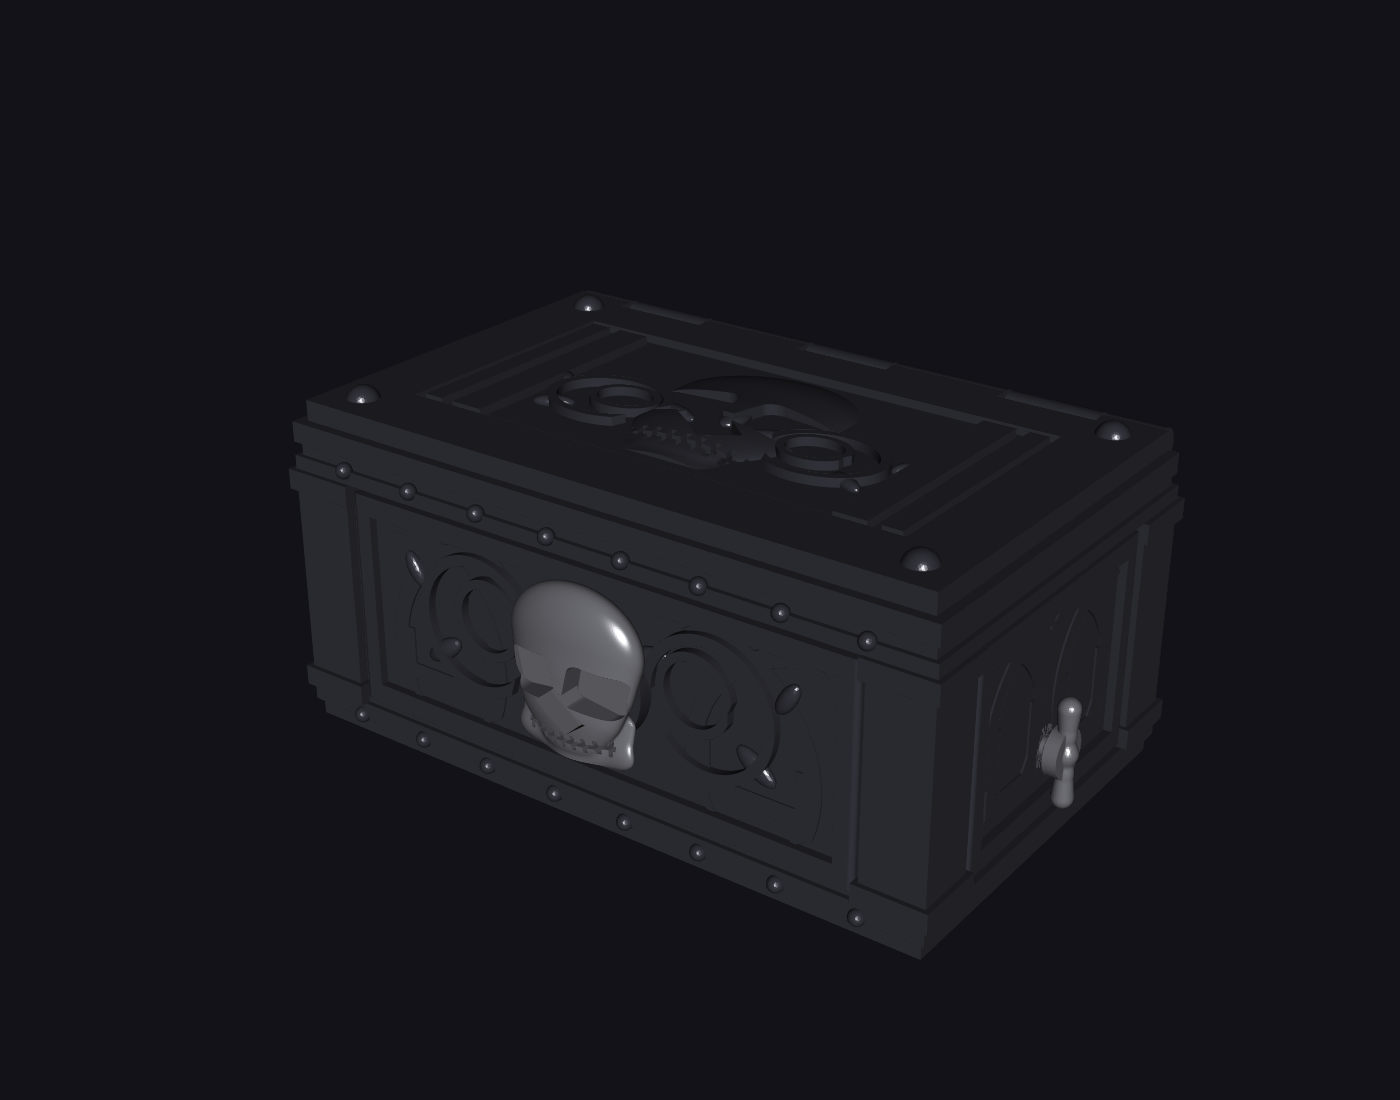
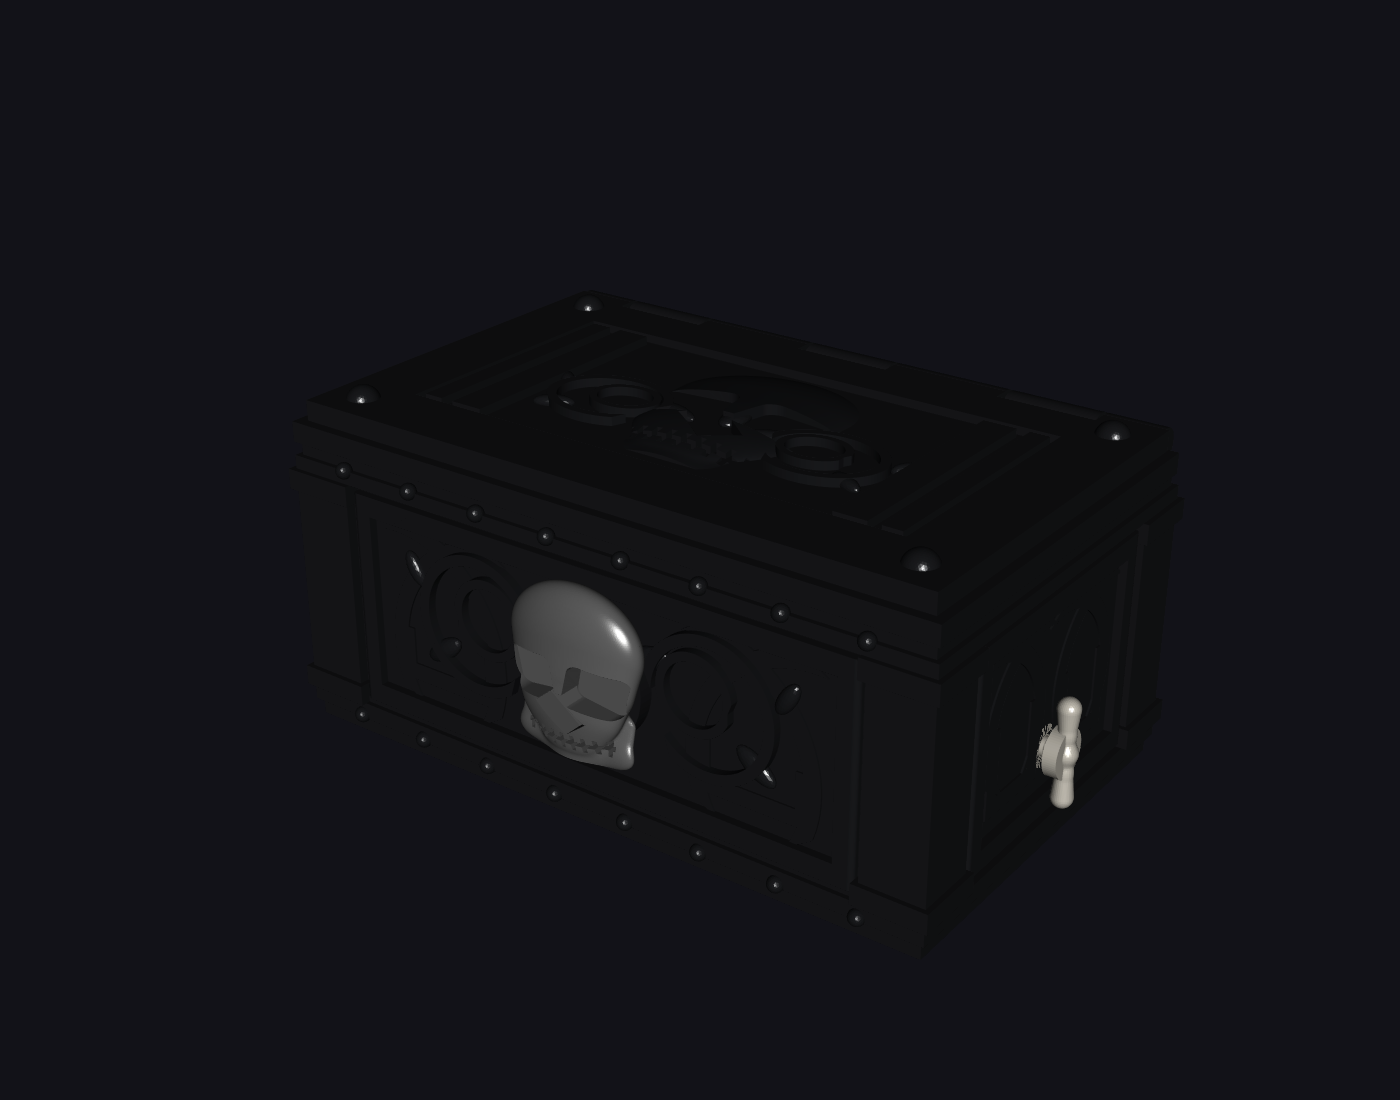
Add material colors to Ghoul print projects
Embed the intended filament colors in Orca project settings and neutral 3MF metadata, render those colors in Canvas and presentation images, and record the verified color-aware slice results.

diff --git a/scripts/export_ghouls_grip_orca_projects.py b/scripts/export_ghouls_grip_orca_projects.py
@@ -32,6 +32,7 @@ METADATA_ENTRY = "Metadata/ghouls_grip_print_metadata.xml"
 MATERIAL_PROJECTS = {
     "black-pla": {
         "match": "Schatulle - schwarzes PLA",
+        "color": "#202124",
         "filament": "Anycubic PLA @Anycubic Kobra S1 0.4 nozzle.json",
         # Economy shell: the 3 mm source walls still retain a durable
         # 1.2 mm perimeter envelope, while lower infill and a 45-degree
@@ -43,12 +44,14 @@ MATERIAL_PROJECTS = {
     },
     "bone-pla": {
         "match": "Knochen - beiges PLA",
+        "color": "#D8C6A5",
         "filament": "Anycubic PLA @Anycubic Kobra S1 0.4 nozzle.json",
         "wall_loops": "4", "infill": "25%", "speed": "standard",
         "filament_type": "PLA", "support": "tree", "manual_gap": 24.0,
     },
     "mechanism-pla": {
         "match": "Mechanik - naturweisses PLA",
+        "color": "#F1EBDD",
         "exclude": {
             "platform", "latch-slider", "latch-bracket",
             "crank-spool", "crank-key",
@@ -60,24 +63,28 @@ MATERIAL_PROJECTS = {
     },
     "mechanism-supported-platform-pla": {
         "match": "Mechanik - naturweisses PLA", "include": {"platform"},
+        "color": "#F1EBDD",
         "filament": "Anycubic PLA @Anycubic Kobra S1 0.4 nozzle.json",
         "wall_loops": "5", "infill": "40%", "speed": "mechanism",
         "filament_type": "PLA", "object_overrides": True, "support": "normal",
     },
     "mechanism-supported-latch-slider-pla": {
         "match": "Mechanik - naturweisses PLA", "include": {"latch-slider"},
+        "color": "#F1EBDD",
         "filament": "Anycubic PLA @Anycubic Kobra S1 0.4 nozzle.json",
         "wall_loops": "5", "infill": "40%", "speed": "mechanism",
         "filament_type": "PLA", "object_overrides": True, "support": "normal",
     },
     "mechanism-supported-latch-bracket-pla": {
         "match": "Mechanik - naturweisses PLA", "include": {"latch-bracket"},
+        "color": "#F1EBDD",
         "filament": "Anycubic PLA @Anycubic Kobra S1 0.4 nozzle.json",
         "wall_loops": "5", "infill": "40%", "speed": "mechanism",
         "filament_type": "PLA", "object_overrides": True, "support": "normal",
     },
     "mechanism-supported-crank-pla": {
         "match": "Mechanik - naturweisses PLA",
+        "color": "#F1EBDD",
         "include": {"crank-spool", "crank-key"},
         "filament": "Anycubic PLA @Anycubic Kobra S1 0.4 nozzle.json",
         "wall_loops": "5", "infill": "40%", "speed": "mechanism",
@@ -87,18 +94,21 @@ MATERIAL_PROJECTS = {
     },
     "mechanism-supported-band-anchor-pla": {
         "match": "Mechanik - naturweisses PLA", "include": {"band-anchor"},
+        "color": "#F1EBDD",
         "filament": "Anycubic PLA @Anycubic Kobra S1 0.4 nozzle.json",
         "wall_loops": "5", "infill": "40%", "speed": "mechanism",
         "filament_type": "PLA", "object_overrides": True, "support": "normal",
     },
     "accent-pla": {
         "match": "Totenkopf-Ausloeser - graues PLA",
+        "color": "#777777",
         "filament": "Anycubic PLA @Anycubic Kobra S1 0.4 nozzle.json",
         "wall_loops": "4", "infill": "25%", "speed": "standard",
         "filament_type": "PLA", "support": "tree",
     },
     "fingers-pla": {
         "match": "Finger - beiges PLA (Filmscharniere)",
+        "color": "#C9B48E",
         "filament": "Anycubic PLA @Anycubic Kobra S1 0.4 nozzle.json",
         "wall_loops": "2", "infill": "15%", "speed": "flexure",
         "filament_type": "PLA", "manual_gap": 20.0,
@@ -201,6 +211,12 @@ def _patch_project_settings(path: Path, spec: dict) -> dict:
     project_key = "Metadata/project_settings.config"
     project = json.loads(entries[project_key].decode("utf-8"))
     overrides = _process_settings(spec)
+    color = spec["color"].upper()
+    overrides.update({
+        "default_filament_colour": [color],
+        "extruder_colour": [color],
+        "filament_colour": [color],
+    })
     project.update(overrides)
     changed = ";".join(sorted(key for key in overrides
                               if key != "filament_type"))
@@ -264,6 +280,8 @@ def _write_project_metadata(path: Path, spec: dict, checks: dict) -> None:
         "filamentProfile": ", ".join(checks["filament"]) if isinstance(
             checks["filament"], list) else checks["filament"],
         "materialType": spec["filament_type"],
+        "materialColorName": spec["match"],
+        "materialColorHex": spec["color"].upper(),
         "bedType": checks["bed"],
         "wallLoops": spec["wall_loops"],
         "infillDensity": spec["infill"],
@@ -298,6 +316,7 @@ def _verify_project(path: Path, expected_objects: int) -> dict:
         "filament": project.get("filament_settings_id"),
         "bed": project.get("curr_bed_type"),
         "layer_height": project.get("layer_height"),
+        "color": project.get("filament_colour"),
         "objects": len(objects),
         "plates": len(plates),
     }
@@ -307,6 +326,11 @@ def _verify_project(path: Path, expected_objects: int) -> dict:
         raise RuntimeError(f"{path.name}: wrong bed: {checks['bed']}")
     if checks["layer_height"] != "0.2":
         raise RuntimeError(f"{path.name}: wrong layer height")
+    expected_color = [MATERIAL_PROJECTS[
+        path.stem.removeprefix("ghouls-grip-print-")]["color"].upper()]
+    if checks["color"] != expected_color:
+        raise RuntimeError(
+            f"{path.name}: wrong filament color: {checks['color']}")
     if len(objects) != expected_objects or not plates:
         raise RuntimeError(f"{path.name}: object/plate count mismatch {checks}")
     return checks

diff --git a/scripts/render_ghouls_grip.py b/scripts/render_ghouls_grip.py
@@ -40,6 +40,11 @@ POSES = {
     "deployed": mechanism.THETA_MAX,
 }
 LID_OPEN_ANGLE = 92.0
+BLACK_COLOR = "#202124"
+BONE_COLOR = "#D8C6A5"
+MECHANISM_COLOR = "#F1EBDD"
+FINGER_COLOR = "#C9B48E"
+ACCENT_COLOR = "#777777"
 
 
 def rot(angle_deg: float, axis, point=(0.0, 0.0, 0.0)):
@@ -98,7 +103,7 @@ def build_scene_at(theta: float):
     plat_origin = np.array([FLOOR_PIVOT[0] - PLATFORM_PIN, 0.0, plate_z + 8.0])
 
     items = []
-    items.append(("chest", build_chest(), "#43434e"))
+    items.append(("chest", build_chest(), BLACK_COLOR))
 
     lid = build_lid()
     lid.apply_translation([0.0, 0.0, LID_DROP])
@@ -108,7 +113,7 @@ def build_scene_at(theta: float):
         lid_transform = rot(opening, [1, 0, 0],
                             [0.0, HINGE_Y, HINGE_Z])
         lid.apply_transform(lid_transform)
-    items.append(("lid", lid, "#43434e"))
+    items.append(("lid", lid, BLACK_COLOR))
 
     for index, x in enumerate((-70.0, 70.0)):
         moving = trimesh.transform_points(
@@ -122,18 +127,18 @@ def build_scene_at(theta: float):
 
     slider = mechanism.build_slider()
     slider.apply_translation([slider_x, 0.0, 0.0])
-    items.append(("slider", slider, "#c9b48e"))
+    items.append(("slider", slider, MECHANISM_COLOR))
 
     arm = mechanism.build_scissor_arm()
     for i, y in enumerate((-SCISSOR_Y, SCISSOR_Y)):
         for mirrored in (False, True):
             off = 3.0 if mirrored else -3.0
             items.append((f"arm-{i}-{mirrored}",
-                          lay_arm(arm, theta, y + off, mirrored), "#d8c6a5"))
+                          lay_arm(arm, theta, y + off, mirrored), MECHANISM_COLOR))
 
     platform = mechanism.build_platform()
     platform.apply_translation(plat_origin)
-    items.append(("platform", platform, "#d8c6a5"))
+    items.append(("platform", platform, MECHANISM_COLOR))
 
     hinge = plat_origin + np.array([ARM_HINGE_X, 0.0, ARM_HINGE_Z])
     tilt = mechanism.forearm_angle(theta)
@@ -142,7 +147,7 @@ def build_scene_at(theta: float):
     forearm.apply_translation([0.0, 0.0, -4.0])
     forearm.apply_transform(rot(tilt, [0, 1, 0]))
     forearm.apply_translation(hinge)
-    items.append(("forearm", forearm, "#d8c6a5"))
+    items.append(("forearm", forearm, BONE_COLOR))
 
     radians = np.deg2rad(tilt)
     sector_point = hinge + np.array([
@@ -188,13 +193,13 @@ def build_scene_at(theta: float):
         part.apply_transform(rot(mechanism.HAND_PALM_ROLL, [0, 0, 1]))
         part.apply_transform(rot(tilt, [0, 1, 0]))
         part.apply_translation(hinge)
-        colour = "#efe2c4" if name.startswith("hand-finger") else "#d8c6a5"
+        colour = FINGER_COLOR if name.startswith("hand-finger") else BONE_COLOR
         items.append((name, part, colour))
 
     trigger = build_trigger()
     trigger.apply_transform(rot(90.0, [1, 0, 0]))
     trigger.apply_translation([0.0, -60.0 - 1.5, 46.0])
-    items.append(("trigger", trigger, "#8d8d96"))
+    items.append(("trigger", trigger, ACCENT_COLOR))
 
     latch = mechanism.build_latch()
     release = min(max(
@@ -204,8 +209,8 @@ def build_scene_at(theta: float):
         [0.0, 0.0, mechanism.LATCH_RELEASE_TRAVEL * release]
     )
     latch.apply_transform(latch_transform)
-    items.append(("latch", latch, "#8d8d96"))
-    items.append(("latch-bracket", mechanism.build_latch_bracket(), "#8d8d96"))
+    items.append(("latch", latch, MECHANISM_COLOR))
+    items.append(("latch-bracket", mechanism.build_latch_bracket(), MECHANISM_COLOR))
     return_eye = trimesh.transform_points(
         [[-4.0, mechanism.LATCH_RETURN_Y, 52.0]], latch_transform
     )[0]
@@ -241,7 +246,7 @@ def build_scene_at(theta: float):
 
     anchor = mechanism.build_band_anchor()
     anchor.apply_translation([-76.0, 0.0, 4.5])
-    items.append(("band-anchor", anchor, "#d8c6a5"))
+    items.append(("band-anchor", anchor, MECHANISM_COLOR))
 
     for sy in (-1.0, 1.0):
         items.append((
@@ -261,7 +266,7 @@ def build_scene_at(theta: float):
         crank = builder()
         crank.apply_transform(rot(90.0, [0, 1, 0]))
         crank.apply_translation([100.0, 0.0, 30.0])
-        items.append((name, crank, "#8d8d96"))
+        items.append((name, crank, MECHANISM_COLOR))
     items.append((
         "reset-cord",
         tube_between(

diff --git a/scripts/ghouls_grip.py b/scripts/ghouls_grip.py
@@ -65,7 +65,7 @@ class Material:
 
 BLACK = Material("Schatulle - schwarzes PLA", "#202124FF")
 BONE = Material("Knochen - beiges PLA", "#D8C6A5FF")
-MECH = Material("Mechanik - naturweisses PLA", "#B89C72FF")
+MECH = Material("Mechanik - naturweisses PLA", "#F1EBDDFF")
 FLEX = Material("Finger - beiges PLA (Filmscharniere)", "#C9B48EFF")
 ACCENT = Material("Totenkopf-Ausloeser - graues PLA", "#777777FF")
 

diff --git a/docs/ghouls-grip-druckvalidierung.md b/docs/ghouls-grip-druckvalidierung.md
@@ -19,6 +19,22 @@ OrcaSlicer: **2.4.2**
   `normal(auto)`/`snug` für die fünf einzeln gedruckten Mechanikteile
 - Prime Tower: aus, da jede Druckplatte nur eine PLA-Spule nutzt
 
+## Materialfarben
+
+Jedes Druckprojekt speichert seine Farbe in Orcas
+`filament_colour`, `extruder_colour` und `default_filament_colour` sowie in
+`Metadata/ghouls_grip_print_metadata.xml`. Der Canvas verwendet denselben Wert
+als Darstellungsfarbe, wenn Orcas Komponentenmodell keine Standard-3MF-Palette
+enthält.
+
+| Materialgruppe | Farbe | Hex |
+| --- | --- | --- |
+| Schatulle und Deckel | Anthrazit/Schwarz | `#202124` |
+| Hand, Unterarm und Sehnenführung | Knochenbeige | `#D8C6A5` |
+| Mechanik | Naturweiß | `#F1EBDD` |
+| Finger | warmes Beige | `#C9B48E` |
+| Totenkopf-Auslöser | Grau | `#777777` |
+
 Die offizielle OrcaSlicer-CLI wurde mit dem exakten gelieferten 3MF jeder
 Platte aufgerufen. Jeder Slice erzeugte eine vollständige G-Code-Datei. Die
 Logs enthalten keine verbleibende Floating-region-, Floating-cantilever-,
@@ -35,18 +51,18 @@ Status lautet `not-verified`; die STL-Canvas-App zeigt diese Werte an.
 
 | Druckprojekt / Platte | Enthaltene Objekte | Schichten | PLA | Zeit | Stützen | Vorschau |
 | --- | --- | ---: | ---: | ---: | --- | --- |
-| `ghouls-grip-print-black-pla.3mf`, Platte 1 | Erleichterte, außen geschlossene Schatulle | 490 | 282,25 g | 10 h 19 min 36 s | Baum, nur kritische Bereiche | [PNG](images/ghouls-grip-slices/ghouls-grip-print-black-pla-plate_1.png) |
-| `ghouls-grip-print-black-pla.3mf`, Platte 2 | Gerippter Deckel mit kollisionsfreier U-Führung | 137 | 175,91 g | 8 h 49 min 47 s | Baum, nur kritische Bereiche | [PNG](images/ghouls-grip-slices/ghouls-grip-print-black-pla-plate_2.png) |
+| `ghouls-grip-print-black-pla.3mf`, Platte 1 | Erleichterte, außen geschlossene Schatulle | 490 | 282,25 g | 10 h 19 min 37 s | Baum, nur kritische Bereiche | [PNG](images/ghouls-grip-slices/ghouls-grip-print-black-pla-plate_1.png) |
+| `ghouls-grip-print-black-pla.3mf`, Platte 2 | Gerippter Deckel mit kollisionsfreier U-Führung | 137 | 175,91 g | 8 h 49 min 44 s | Baum, nur kritische Bereiche | [PNG](images/ghouls-grip-slices/ghouls-grip-print-black-pla-plate_2.png) |
 | `ghouls-grip-print-bone-pla.3mf` | Geneigter Unterarm, nach oben gerollte Handfläche, Sehnenführung | 284 | 52,30 g | 3 h 29 min 54 s | Baum | [PNG](images/ghouls-grip-slices/ghouls-grip-print-bone-pla.png) |
-| `ghouls-grip-print-mechanism-pla.3mf` | 4 Scherenarme, Schlitten, 8 kleine und 4 große Pins | 170 | 50,10 g | 2 h 30 min 41 s | nein | [PNG](images/ghouls-grip-slices/ghouls-grip-print-mechanism-pla.png) |
-| `ghouls-grip-print-mechanism-supported-platform-pla.3mf` | Hubjoch | 344 | 46,21 g | 1 h 58 min 44 s | normal/snug | [PNG](images/ghouls-grip-slices/ghouls-grip-print-mechanism-supported-platform-pla.png) |
-| `ghouls-grip-print-mechanism-supported-latch-slider-pla.3mf` | Interner Rastschieber | 344 | 8,94 g | 32 min 29 s | normal/snug | [PNG](images/ghouls-grip-slices/ghouls-grip-print-mechanism-supported-latch-slider-pla.png) |
+| `ghouls-grip-print-mechanism-pla.3mf` | 4 Scherenarme, Schlitten, 8 kleine und 4 große Pins | 170 | 50,04 g | 2 h 30 min 33 s | nein | [PNG](images/ghouls-grip-slices/ghouls-grip-print-mechanism-pla.png) |
+| `ghouls-grip-print-mechanism-supported-platform-pla.3mf` | Hubjoch | 344 | 46,11 g | 1 h 58 min 31 s | normal/snug | [PNG](images/ghouls-grip-slices/ghouls-grip-print-mechanism-supported-platform-pla.png) |
+| `ghouls-grip-print-mechanism-supported-latch-slider-pla.3mf` | Interner Rastschieber | 344 | 8,89 g | 32 min 23 s | normal/snug | [PNG](images/ghouls-grip-slices/ghouls-grip-print-mechanism-supported-latch-slider-pla.png) |
 | `ghouls-grip-print-mechanism-supported-latch-bracket-pla.3mf` | Interne Rastschieberführung mit Montagepads | 170 | 18,93 g | 35 min 22 s | normal/snug | [PNG](images/ghouls-grip-slices/ghouls-grip-print-mechanism-supported-latch-bracket-pla.png) |
-| `ghouls-grip-print-mechanism-supported-crank-pla.3mf` | Interne Spule und abnehmbarer Schlüssel | 165 | 5,73 g | 22 min 31 s | normal/snug | [PNG](images/ghouls-grip-slices/ghouls-grip-print-mechanism-supported-crank-pla.png) |
-| `ghouls-grip-print-mechanism-supported-band-anchor-pla.3mf` | Bandanker | 143 | 12,25 g | 39 min 56 s | normal/snug | [PNG](images/ghouls-grip-slices/ghouls-grip-print-mechanism-supported-band-anchor-pla.png) |
-| `ghouls-grip-print-accent-pla.3mf` | Flacher Totenkopf-Auslöser mit kurzem Stößel | 107 | 14,32 g | 51 min 09 s | Baum | [PNG](images/ghouls-grip-slices/ghouls-grip-print-accent-pla.png) |
+| `ghouls-grip-print-mechanism-supported-crank-pla.3mf` | Interne Spule und abnehmbarer Schlüssel | 165 | 5,71 g | 22 min 28 s | normal/snug | [PNG](images/ghouls-grip-slices/ghouls-grip-print-mechanism-supported-crank-pla.png) |
+| `ghouls-grip-print-mechanism-supported-band-anchor-pla.3mf` | Bandanker | 143 | 12,22 g | 39 min 51 s | normal/snug | [PNG](images/ghouls-grip-slices/ghouls-grip-print-mechanism-supported-band-anchor-pla.png) |
+| `ghouls-grip-print-accent-pla.3mf` | Flacher Totenkopf-Auslöser mit kurzem Stößel | 107 | 14,21 g | 50 min 49 s | Baum | [PNG](images/ghouls-grip-slices/ghouls-grip-print-accent-pla.png) |
 | `ghouls-grip-print-fingers-pla.3mf` | Daumen und vier Finger | 57 | 11,78 g | 1 h 21 min 30 s | Baum | [PNG](images/ghouls-grip-slices/ghouls-grip-print-fingers-pla.png) |
-| **Gesamt** | 34 physische Druckobjekte | - | **678,72 g** | **31 h 31 min 39 s** | - | - |
+| **Gesamt** | 34 physische Druckobjekte | - | **678,35 g** | **31 h 30 min 42 s** | - | - |
 
 Gegenüber den vom Benutzer gemessenen Ausgangswerten für Schatulle und Deckel
 (400,39 g + 229,27 g = 629,66 g) benötigt das schwarze Projekt jetzt
@@ -96,18 +112,18 @@ regeneriert. SHA-256:
 
 | Datei | SHA-256 |
 | --- | --- |
[24 lines of base64/hex data omitted]
 
 ## Verbleibende physische Risiken
 

diff --git a/docs/ghouls-grip-masse-und-bauanleitung.md b/docs/ghouls-grip-masse-und-bauanleitung.md
@@ -182,7 +182,9 @@ Mechanik-Projekte damit drucken - ASA braucht dann ein Gehäuse und 100/250 °C.
 Die zehn Druckdateien sind echte OrcaSlicer-Projekte. Sie enthalten den
 Drucker `Anycubic Kobra S1 0.4 nozzle`, `Textured PEI Plate`, das passende
 Anycubic-Filamentprofil und globale Materialwerte. Das Mechanik-Projekt enthält
-zusätzlich objektbezogene Verstärkungen für Arme, Klinke und Pins.
+zusätzlich objektbezogene Verstärkungen für Arme, Klinke und Pins. Die
+Filamentfarben sind fest eingebettet: Schwarz `#202124`, Knochenbeige
+`#D8C6A5`, Naturweiß `#F1EBDD`, Fingerbeige `#C9B48E` und Grau `#777777`.
 
 Nicht gedruckt: 2 × Haushaltsgummiband ca. 60 mm, ca. 1 m 0,8-mm-Angelsehne,
 1,75-mm-Filament als Scharnierachse. Für hoch belastete Scherengelenke sind
@@ -223,16 +225,16 @@ Mit OrcaSlicer 2.4.2 erfolgreich geslicte Werte:
 | --- | ---: | ---: | ---: | --- |
 | Schwarz PLA, Platte 1 (Schatulle) | 490 | 282,25 g | 10 h 20 min | Baum, nur kritisch |
 | Schwarz PLA, Platte 2 (Deckel) | 137 | 175,91 g | 8 h 50 min | Baum, nur kritisch |
-| Knochen PLA | 284 | 53,21 g | 3 h 34 min | Baum |
-| Mechanik PLA, supportfrei | 170 | 50,10 g | 2 h 31 min | nein |
-| Hubjoch PLA | 344 | 46,21 g | 1 h 59 min | normal/snug |
-| Rastschieber PLA | 344 | 8,94 g | 32 min | normal/snug |
+| Knochen PLA | 284 | 52,30 g | 3 h 30 min | Baum |
+| Mechanik PLA, supportfrei | 170 | 50,04 g | 2 h 31 min | nein |
+| Hubjoch PLA | 344 | 46,11 g | 1 h 59 min | normal/snug |
+| Rastschieber PLA | 344 | 8,89 g | 32 min | normal/snug |
 | Rastschieberführung PLA | 170 | 18,93 g | 35 min | normal/snug |
-| Spule + Schlüssel PLA | 165 | 5,73 g | 23 min | normal/snug |
-| Bandanker PLA | 143 | 12,25 g | 40 min | normal/snug |
-| Akzent PLA | 107 | 14,32 g | 51 min | Baum |
-| Finger PLA | 57 | 12,01 g | 1 h 23 min | Baum |
-| **Gesamt** | - | **694,09 g** | **31 h 14 min** | - |
+| Spule + Schlüssel PLA | 165 | 5,71 g | 22 min | normal/snug |
+| Bandanker PLA | 143 | 12,22 g | 40 min | normal/snug |
+| Akzent PLA | 107 | 14,21 g | 51 min | Baum |
+| Finger PLA | 57 | 11,78 g | 1 h 22 min | Baum |
+| **Gesamt** | - | **678,35 g** | **31 h 31 min** | - |
 
 Alle Projekte starten mit **55/215 °C** (PLA). Das Fingerprojekt fährt die
 Außenwände bewusst mit 30 mm/s und reduzierter Beschleunigung, damit der
